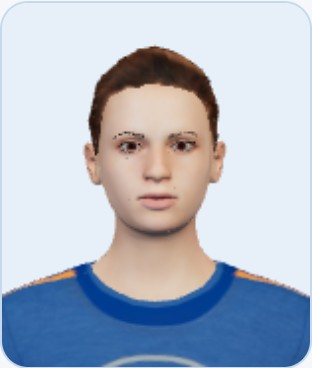
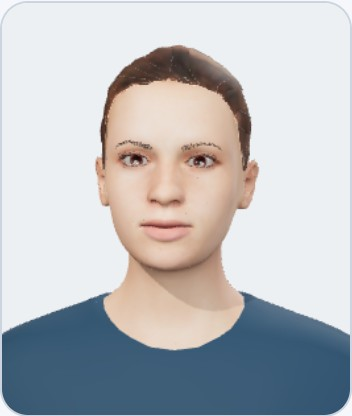
Mejorar retrato 3D y articular la bienvenida con transiciones suaves

diff --git a/avatar.js b/avatar.js
@@ -1,23 +1,28 @@
 import {
   ACESFilmicToneMapping, Color, DirectionalLight, Euler, HemisphereLight,
-  OrthographicCamera, Quaternion, Scene, Vector3, WebGLRenderer
+  MathUtils, MeshPhysicalMaterial, PCFSoftShadowMap, PerspectiveCamera,
+  PMREMGenerator, Quaternion, Scene, Vector3, WebGLRenderer
 } from 'three';
 import { GLTFLoader } from 'three/addons/loaders/GLTFLoader.js';
+import { RoomEnvironment } from 'three/addons/environments/RoomEnvironment.js';
+import { createSpeechMotion } from './speech-motion.js';
 
 export async function initAvatar3D(container) {
   const renderer = new WebGLRenderer({ antialias: true, alpha: true });
-  renderer.setPixelRatio(Math.min(window.devicePixelRatio || 1, 2));
+  renderer.setPixelRatio(Math.min(Math.max(window.devicePixelRatio || 1, 1.5), 2));
   renderer.toneMapping = ACESFilmicToneMapping;
   renderer.toneMappingExposure = 1;
+  renderer.shadowMap.enabled = true;
+  renderer.shadowMap.type = PCFSoftShadowMap;
   const scene = new Scene();
-  scene.background = new Color('#e7eff8');
-  scene.add(new HemisphereLight(0xfff5ec, 0x7c96b6, 1.8));
-  const key = new DirectionalLight(0xfff2e3, 2);
-  key.position.set(1, 2, 3);
+  scene.background = new Color('#edf0f3');
+  scene.add(new HemisphereLight(0xfff3e7, 0x93a0b0, 0.5));
+  const key = new DirectionalLight(0xffe6d3, 2.4);
   scene.add(key);
-  const fill = new DirectionalLight(0xe2edff, 0.9);
-  fill.position.set(-2, 1, 2);
+  const fill = new DirectionalLight(0xe4eeff, 0.7);
   scene.add(fill);
+  const rim = new DirectionalLight(0xffffff, 1.8);
+  scene.add(rim);
 
   let model;
   try {
@@ -43,27 +48,68 @@ export async function initAvatar3D(container) {
     if (object.isMesh) {
       for (const material of Array.isArray(object.material) ? object.material : [object.material]) {
         material.metalness = 0;
-        material.roughness = Math.max(material.roughness, 0.6);
+        if (material.name === 'Human.body') material.roughness = 0.5;
+        if (/eyebrows|eyelashes/.test(material.name)) material.color.set('#49322b');
+        if (/eyebrows/.test(material.name)) {
+          material.transparent = true;
+          material.opacity = 0.7;
+          material.depthWrite = false;
+        }
+        if (material.name === 'Human.female_casualsuit01') {
+          material.map = null;
+          material.color.set('#24445c');
+        }
+        if (/ponytail/.test(material.name)) material.alphaToCoverage = true;
+      }
+      object.castShadow = !/eyebrows|eyelashes|high-poly/.test(object.name);
+      object.receiveShadow = true;
+      if (object.material.name === 'Human.high-poly') {
+        const original = object.material;
+        object.material = new MeshPhysicalMaterial({
+          name: original.name, map: original.map, color: original.color,
+          side: original.side, alphaTest: original.alphaTest, alphaToCoverage: true,
+          roughness: 0.18, clearcoat: 1, clearcoatRoughness: 0.08, ior: 1.38
+        });
+        original.dispose();
       }
     }
   });
+  const environmentGenerator = new PMREMGenerator(renderer);
+  const room = new RoomEnvironment();
+  const environment = environmentGenerator.fromScene(room, 0.04);
+  scene.environment = environment.texture;
+  scene.environmentIntensity = 0.3;
+  room.dispose();
+  environmentGenerator.dispose();
   model.updateMatrixWorld(true);
   const focus = head.getWorldPosition(new Vector3());
   focus.y += 0.04;
-  const halfHeight = 0.24;
-  const camera = new OrthographicCamera(-0.2, 0.2, halfHeight, -halfHeight, 0.01, 20);
-  camera.position.set(focus.x, focus.y, focus.z + 3);
+  key.position.copy(focus).add(new Vector3(-0.8, 1.2, 1.8));
+  fill.position.copy(focus).add(new Vector3(1, 0.3, 1.2));
+  rim.position.copy(focus).add(new Vector3(0.5, 0.7, -0.8));
+  for (const light of [key, fill, rim]) {
+    light.target.position.copy(focus);
+    scene.add(light.target);
+  }
+  key.castShadow = true;
+  key.shadow.mapSize.set(1024, 1024);
+  Object.assign(key.shadow.camera, { left: -0.45, right: 0.45, top: 0.45, bottom: -0.45, near: 0.1, far: 5 });
+  key.shadow.normalBias = 0.0015;
+  key.shadow.bias = -0.00015;
+  const camera = new PerspectiveCamera(24, 1, 0.1, 10);
+  camera.position.copy(focus).add(new Vector3(0.02, 0.015, 1.12));
   camera.lookAt(focus);
   const rest = head.quaternion.clone();
   const turn = new Quaternion();
   const angles = new Euler();
+  const eyes = ['LeftEye', 'RightEye'].map(name => model.getObjectByName(name)).filter(Boolean)
+    .map(bone => ({ bone, rest: bone.quaternion.clone() }));
   renderer.domElement.setAttribute('aria-hidden', 'true');
   container.append(renderer.domElement);
   const resize = new ResizeObserver(() => {
     const { width, height } = container.getBoundingClientRect();
     if (!width || !height) return;
-    camera.left = -halfHeight * width / height;
-    camera.right = halfHeight * width / height;
+    camera.aspect = width / height;
     camera.updateProjectionMatrix();
     renderer.setSize(width, height, false);
   });
@@ -71,13 +117,20 @@ export async function initAvatar3D(container) {
 
   const reducedMotion = window.matchMedia('(prefers-reduced-motion: reduce)');
   let speaking = false;
-  let word = '';
-  let wordTime = 0;
+  let speechMotion;
   let lastFrame = 0;
+  let nextBlink = performance.now() + 1800;
+  let blinkStart = -Infinity;
+  let nextGaze = 0;
+  let gazeX = 0;
+  let gazeY = 0;
+  let eyeX = 0;
+  let eyeY = 0;
+  let emphasisTime = -Infinity;
   let visible = true;
   const observer = new IntersectionObserver(([entry]) => { visible = entry.isIntersecting; });
   observer.observe(container);
-  const vowels = { a: 'viseme_aa', e: 'viseme_E', i: 'viseme_I', o: 'viseme_O', u: 'viseme_U' };
+  const mouthShapes = [...new Set(morphMeshes.flatMap(mesh => Object.keys(mesh.morphTargetDictionary).filter(name => name.startsWith('viseme_'))))];
 
   function setMorph(name, value) {
     for (const mesh of morphMeshes) {
@@ -86,51 +139,76 @@ export async function initAvatar3D(container) {
     }
   }
   function resetMouth() {
-    for (const name of ['viseme_aa', 'viseme_E', 'viseme_I', 'viseme_O', 'viseme_U', 'viseme_PP']) setMorph(name, 0);
+    for (const name of mouthShapes) setMorph(name, 0);
+  }
+  function blendMorph(name, target, delta) {
+    for (const mesh of morphMeshes) {
+      const index = mesh.morphTargetDictionary[name];
+      if (index !== undefined) mesh.morphTargetInfluences[index] = MathUtils.damp(mesh.morphTargetInfluences[index], target, 24, delta);
+    }
   }
 
   renderer.setAnimationLoop(now => {
     if (!visible || document.hidden || now - lastFrame < 33) return;
+    const delta = Math.min((now - lastFrame) / 1000, 0.1);
     lastFrame = now;
     const time = now / 1000;
-    const blinkPhase = time % 4.7;
-    const blink = reducedMotion.matches ? 0 : Math.max(0, 1 - Math.abs(blinkPhase - 0.12) / 0.1);
+    if (now >= nextBlink) {
+      blinkStart = now;
+      nextBlink = now + 2800 + Math.random() * 3200;
+    }
+    const blinkPhase = (now - blinkStart) / 180;
+    const blink = reducedMotion.matches || blinkPhase > 1 ? 0 : blinkPhase < 0.35
+      ? MathUtils.smoothstep(blinkPhase, 0, 0.35) : 1 - MathUtils.smoothstep(blinkPhase, 0.35, 1);
     setMorph('eyeBlinkLeft', blink);
     setMorph('eyeBlinkRight', blink);
-    setMorph('mouthSmileLeft', speaking ? 0.04 : 0.1);
-    setMorph('mouthSmileRight', speaking ? 0.04 : 0.1);
+    blendMorph('mouthSmileLeft', speaking ? 0.045 : 0.19, delta);
+    blendMorph('mouthSmileRight', speaking ? 0.04 : 0.17, delta);
+    const nodPhase = (now - emphasisTime) / 750;
+    const nod = speaking && nodPhase < 1 ? Math.sin(nodPhase * Math.PI) * 0.018 : 0;
+    blendMorph('browInnerUp', nod * 4, delta);
     if (!reducedMotion.matches) {
-      angles.set(Math.sin(time * 0.8) * 0.018, Math.sin(time * 0.55) * 0.035, Math.sin(time * 0.7) * 0.012);
+      angles.set(0.01 + nod + Math.sin(time * 0.7) * 0.003, -0.075 + Math.sin(time * 0.4) * 0.008, -0.012);
       head.quaternion.copy(rest).multiply(turn.setFromEuler(angles));
+      if (now >= nextGaze) {
+        gazeX = (Math.random() - 0.5) * 0.016;
+        gazeY = (Math.random() - 0.5) * 0.025;
+        nextGaze = now + 1900 + Math.random() * 2600;
+      }
+      eyeX = MathUtils.damp(eyeX, gazeX, 14, delta);
+      eyeY = MathUtils.damp(eyeY, gazeY, 14, delta);
+      for (const eye of eyes) eye.bone.quaternion.copy(eye.rest).premultiply(turn.setFromEuler(angles.set(eyeX, 0.065 + eyeY, 0)));
     } else {
       head.quaternion.copy(rest);
+      for (const eye of eyes) eye.bone.quaternion.copy(eye.rest);
     }
-    resetMouth();
-    if (speaking) {
-      const character = word[Math.floor((now - wordTime) / 95) % Math.max(word.length, 1)] || 'a';
-      const closed = /[mbp]/.test(character);
-      const opening = 0.12 + Math.abs(Math.sin(time * 13)) * 0.45;
-      setMorph(closed ? 'viseme_PP' : (vowels[character] || 'viseme_aa'), closed ? 0.45 : opening);
-    }
+    const weights = speaking ? speechMotion?.sample(now) || {} : {};
+    for (const shape of mouthShapes) blendMorph(shape, weights[shape] || 0, delta);
     renderer.render(scene, camera);
   });
   container.dataset.ready = 'true';
   return {
-    setSpeaking(value) {
+    setSpeaking(value, text = '') {
       speaking = value;
-      if (!value) {
-        word = '';
+      if (value) {
+        speechMotion = createSpeechMotion(text);
+        speechMotion.start(performance.now());
+      } else {
+        speechMotion?.stop();
         resetMouth();
       }
     },
-    setWord(value) {
-      word = value.toLocaleLowerCase('es').normalize('NFD').replace(/[\u0300-\u036f]/g, '');
-      wordTime = performance.now();
+    setWord(value, index) {
+      const now = performance.now();
+      speechMotion?.syncWord(index, now);
+      if (/experiencia|encontrarlas|aplicación|arquitectura|originales/i.test(value)) emphasisTime = now;
     },
     dispose() {
       observer.disconnect();
       resize.disconnect();
       renderer.setAnimationLoop(null);
+      environment.dispose();
+      key.shadow.dispose();
       model.traverse(object => {
         object.geometry?.dispose();
         if (!object.material) return;

diff --git a/speech-motion.js b/speech-motion.js
@@ -1,0 +1,73 @@
+const vowels = { a: ['aa', 0.62], e: ['E', 0.46], i: ['I', 0.36], o: ['O', 0.58], u: ['U', 0.5] };
+const consonants = {
+  b: 'PP', m: 'PP', p: 'PP', v: 'PP', f: 'FF',
+  t: 'DD', d: 'DD', n: 'nn', l: 'nn', r: 'RR', rr: 'RR',
+  s: 'SS', z: 'SS', x: 'SS', ch: 'CH', ll: 'I', y: 'I',
+  k: 'kk', q: 'kk', qu: 'kk', gu: 'kk', j: 'kk'
+};
+
+export function createSpeechMotion(text) {
+  const cues = [];
+  let duration = 0;
+  for (const match of text.matchAll(/ch|ll|rr|qu|gu(?=[eiéí])|[a-záéíóúüñ]|[.,;:!?]|\s/giu)) {
+    const token = match[0].toLocaleLowerCase('es').normalize('NFD').replace(/[\u0300-\u036f]/g, '');
+    let shape;
+    let strength = 0;
+    let length = 25;
+    if (vowels[token]) {
+      [shape, strength] = vowels[token];
+      length = 90;
+    } else if (/[.,;:!?]/.test(token)) {
+      length = /[.!?]/.test(token) ? 330 : 160;
+    } else if (token !== 'h' && !/\s/.test(token)) {
+      const next = text[match.index + 1] || '';
+      shape = token === 'c' ? (/[eiéí]/i.test(next) ? 'SS' : 'kk')
+        : token === 'g' ? 'kk' : consonants[token] || 'nn';
+      strength = shape === 'PP' ? 0.82 : 0.4;
+      length = shape === 'SS' || shape === 'CH' ? 85 : 60;
+    }
+    cues.push({ index: match.index, start: duration, end: duration + length, shape, strength });
+    duration += length;
+  }
+  let active = false;
+  let anchorTime = 0;
+  let anchorOffset = 0;
+  let speed = 1;
+  let previousBoundary;
+
+  return {
+    start(now) {
+      active = true;
+      anchorTime = now;
+      anchorOffset = 0;
+      speed = 1;
+      previousBoundary = undefined;
+    },
+    stop() { active = false; },
+    syncWord(index, now) {
+      if (!active) return;
+      const cue = cues.find(item => item.index >= index);
+      if (!cue || (previousBoundary && index <= previousBoundary.index)) return;
+      if (previousBoundary && now - previousBoundary.time > 80) {
+        const observed = (cue.start - previousBoundary.offset) / (now - previousBoundary.time);
+        speed = speed * 0.6 + Math.min(1.8, Math.max(0.65, observed)) * 0.4;
+      }
+      anchorTime = now;
+      anchorOffset = cue.start;
+      previousBoundary = { index, time: now, offset: cue.start };
+    },
+    sample(now) {
+      if (!active) return {};
+      const elapsed = anchorOffset + (now - anchorTime) * speed;
+      const index = cues.findIndex(cue => elapsed >= cue.start && elapsed < cue.end);
+      if (index < 0) return {};
+      const cue = cues[index];
+      const next = cues[index + 1];
+      const blend = Math.max(0, 1 - (cue.end - elapsed) / Math.min(45, (cue.end - cue.start) * 0.5)) * 0.4;
+      const weights = {};
+      if (cue.shape) weights[`viseme_${cue.shape}`] = cue.strength * (1 - blend);
+      if (next?.shape) weights[`viseme_${next.shape}`] = (weights[`viseme_${next.shape}`] || 0) + next.strength * blend;
+      return weights;
+    }
+  };
+}

diff --git a/app.js b/app.js
@@ -31,9 +31,12 @@ renderCatalog();
 
 let presenter;
 let speaking = false;
+let currentWord;
+const introduction = `${document.querySelector('#page-title').textContent} ${document.querySelector('#intro-description').textContent}`;
 import('./avatar.js').then(async ({ initAvatar3D }) => {
   presenter = await initAvatar3D(document.querySelector('#voice-avatar'));
-  presenter.setSpeaking(speaking);
+  presenter.setSpeaking(speaking, introduction);
+  if (speaking && currentWord) presenter.setWord(currentWord.word, currentWord.index);
   document.querySelector('#avatar-status').textContent = 'Simulación 3D · movimiento labial aproximado.';
 }).catch(error => {
   console.error('No se pudo cargar el avatar 3D:', error);
@@ -46,11 +49,15 @@ const stopVoice = initVoiceGuide({
   symbol: document.querySelector('#voice-symbol'),
   status: document.querySelector('#voice-status'),
   avatar: document.querySelector('#voice-avatar'),
-  text: `${document.querySelector('#page-title').textContent} ${document.querySelector('#intro-description').textContent}`,
+  text: introduction,
   onSpeakingChange(value) {
     speaking = value;
-    presenter?.setSpeaking(value);
+    currentWord = undefined;
+    presenter?.setSpeaking(value, introduction);
   },
-  onWord(word) { presenter?.setWord(word); }
+  onWord(word, index) {
+    currentWord = { word, index };
+    presenter?.setWord(word, index);
+  }
 }, window.speechSynthesis, window.SpeechSynthesisUtterance);
 window.addEventListener('pagehide', stopVoice);

diff --git a/style.css b/style.css
@@ -19,7 +19,7 @@ main { max-width: 1480px; margin: auto; padding: 64px 60px 48px; }
 .intro h1 { font-size: clamp(30px, 3vw, 44px); font-weight: 650; letter-spacing: -.035em; line-height: 1.15; margin: 0 0 18px; text-wrap: balance; }
 .intro p { color: #4a5a70; max-width: 680px; line-height: 1.75; margin: 0; font-size: 16px; }
 .voice-guide { display: flex; align-items: center; gap: 14px; margin-top: 24px; }
-.voice-avatar { position: relative; width: 156px; height: 184px; flex: 0 0 156px; border-radius: 14px; overflow: hidden; border: 1px solid #c5d8ed; background: #e7eff8; }
+.voice-avatar { position: relative; width: 176px; height: 208px; flex: 0 0 176px; border-radius: 14px; overflow: hidden; border: 1px solid #cbd4df; background: #edf0f3; }
 .voice-avatar img, .voice-avatar canvas { position: absolute; inset: 0; display: block; width: 100%; height: 100%; object-fit: cover; }
 .voice-avatar[data-ready="true"] img { visibility: hidden; }
 .voice-title { display: block; font-size: 15px; font-weight: 600; margin-bottom: 12px; }

diff --git a/voice.js b/voice.js
@@ -64,7 +64,7 @@ export function initVoiceGuide({ button, label, symbol, status, avatar, text, on
     utterance.onboundary = event => {
       if (active !== utterance || event.name !== 'word') return;
       const word = text.slice(event.charIndex).match(/^\S+/)?.[0];
-      if (word) onWord(word);
+      if (word) onWord(word, event.charIndex);
     };
     utterance.onerror = event => {
       if (active !== utterance) return;

diff --git a/README.md b/README.md
@@ -6,7 +6,7 @@ Un punto de acceso en español a las aplicaciones originales de ATLAS Studio, Ph
 
 Solo incluye demos existentes con enlaces directos y capturas reales de sus pantallas. No contiene recorridos recreados, asistentes propios ni integraciones de IA. Cada aplicación documenta su alcance y sus límites por separado. La aplicación específica del cliente queda excluida y el catálogo original permanece sin cambios.
 
-La guía es un personaje humano 3D renderizado en el navegador con Three.js (`avatar.js`), no un video de una persona. Lee únicamente el título y el párrafo de presentación mediante la síntesis de voz del navegador (`voice.js`). Incluye parpadeos, movimiento sutil de cabeza y expresiones de boca aproximadas mientras habla; aprovecha los eventos de palabra cuando la voz los ofrece, pero no garantiza sincronización fonética. No es un chat, no usa micrófono ni reproduce audio automáticamente. El botón permite iniciar, detener y repetir la presentación.
+La guía es un personaje humano 3D renderizado en el navegador con Three.js (`avatar.js`), no un video de una persona. Lee únicamente el título y el párrafo de presentación mediante la síntesis de voz del navegador (`voice.js`). Utiliza iluminación de retrato con sombras suaves, reflejos en los ojos, mirada sutil y parpadeos a intervalos variables. La boca enlaza poses de articulación en español y respeta las pausas de puntuación (`speech-motion.js`), en lugar de repetir una apertura periódica. Los eventos de palabra ajustan el tiempo a la voz cuando están disponibles; sin ellos se utiliza una estimación del texto, no sincronización fonética exacta. Los gestos de cabeza acompañan algunas palabras de la bienvenida. No es un chat, no usa micrófono ni reproduce audio automáticamente. El botón permite iniciar, detener y repetir la presentación.
 
 La simulación no utiliza recursos de una suscripción de Azure, claves ni servicios de avatar. La voz depende de las opciones en español del navegador o del sistema (algunas pueden necesitar Internet). El modelo 3D y el motor se sirven desde el propio sitio; la descarga del modelo optimizado es de aproximadamente 5–6 MB. Requiere WebGL 2 y un navegador moderno con descompresión gzip. Si falla la animación, se muestra un retrato estático y un aviso; el audio y el catálogo siguen disponibles. Se respeta la preferencia de reducir movimiento para parpadeos y cabeza. Licencias y procedencia en `THIRD_PARTY_NOTICES.txt`.
 
